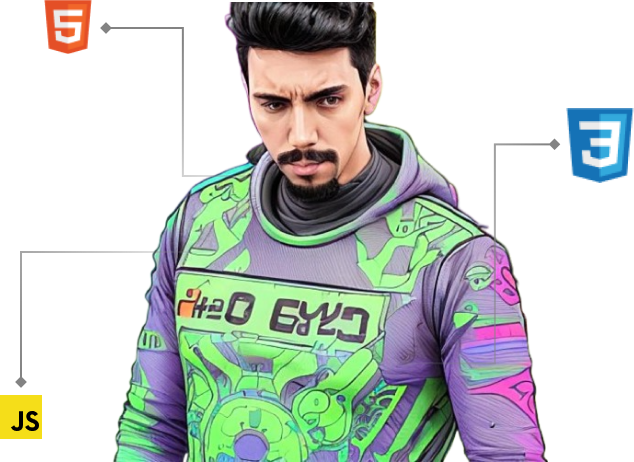
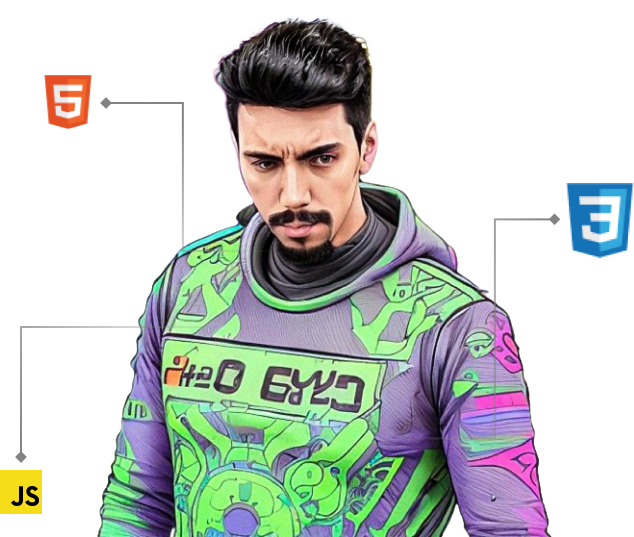
style: image hero

diff --git a/styles/Hero.module.css b/styles/Hero.module.css
@@ -29,6 +29,7 @@
 .title span {
     font-size: 4.8rem;
     font-weight: 700;
+    font-family: 'Righteous', cursive;
 }
 
 .gradient {
@@ -41,7 +42,7 @@
     display: flex;
     align-items: flex-start;
     justify-content: space-between;
-    padding: 80px 0 0 0;
+    padding: 20px 0 0 0;
     color: var(--color-gray-dark);
     background-image: url(/images/back.png);
 

diff --git a/styles/globals.css b/styles/globals.css
@@ -1,5 +1,7 @@
 @import url('https://fonts.googleapis.com/css2?family=Inter:wght@300;400;500;700&display=swap');
 @import url('https://fonts.googleapis.com/css2?family=Roboto+Slab&display=swap');
+@import url('https://fonts.googleapis.com/css2?family=Righteous&display=swap');
+
 
 :root {
   --max-width: 1200px;
